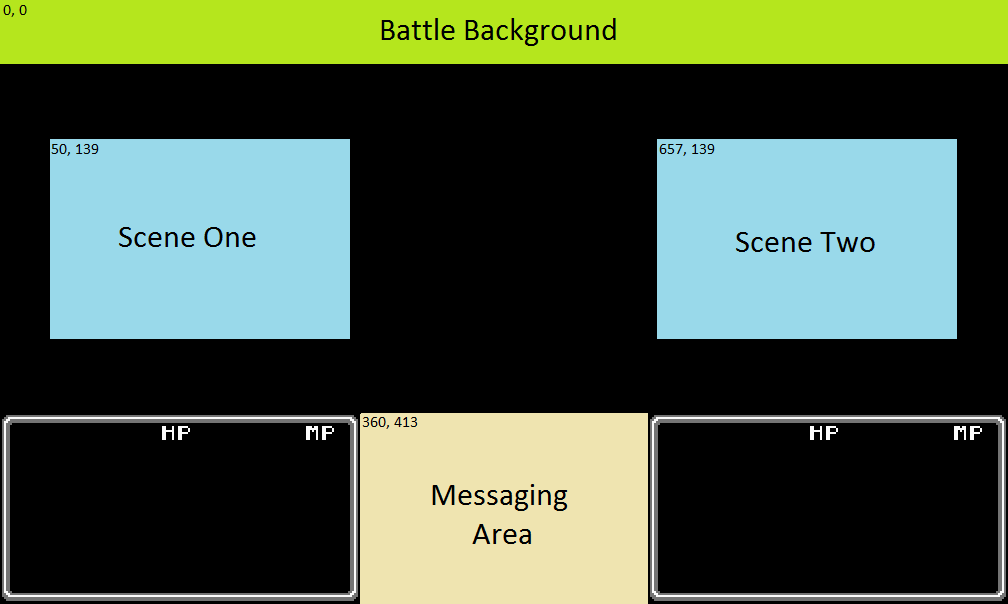
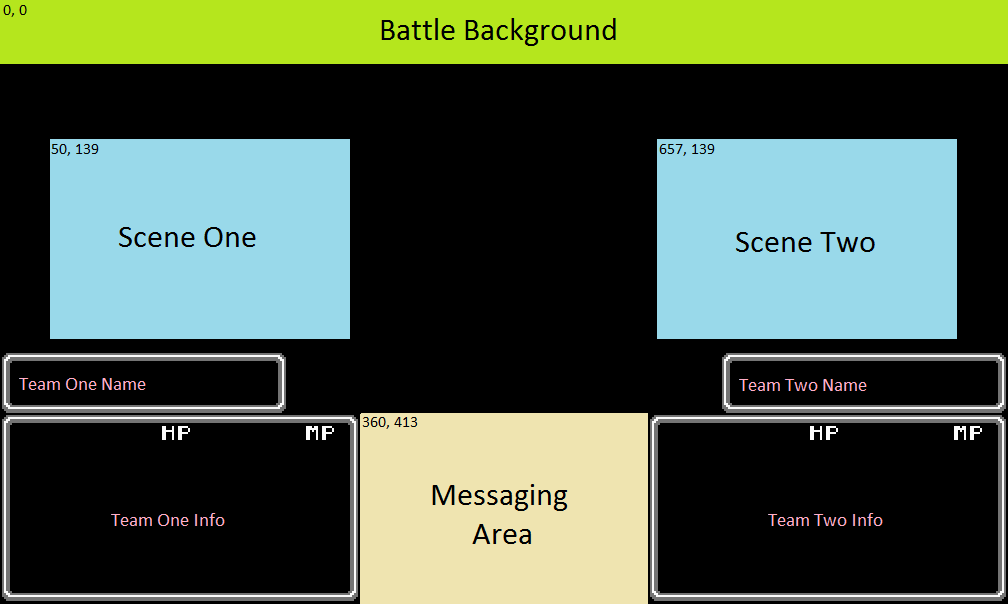
TeamData, Graphics added, needs cleaning
BattleScene:
- IsTeam boolean

Game:
- Team management. Will need to be put into own TeamManager class
- Writing results fix

TextManager:
- InfoBox manager
- TeamName displays

diff --git a/FF2_Monster_Sim/Game1.cs b/FF2_Monster_Sim/Game1.cs
@@ -1,4 +1,5 @@
 using System;
+using System.IO;
 using System.Collections.Generic;
 using System.Diagnostics;
 using System.Linq;
@@ -19,11 +20,12 @@ namespace FF2_Monster_Sim
         BattleScene sceneOne, sceneTwo;
 
         // Turn Logic
-        private const int ROUND_LIMIT = 200;
+        private const int ROUND_LIMIT = 100;
         private int turn = 0, turnTotal = 0, round = 0;
         private Thread combatThread;
-        private int gameTick = 1, teardownTick = 1;
-        private const int FANFARE_TIMER = 30000; // 17000 for one loop
+        private int gameTick = 100, teardownTick = 150;
+        private const int FANFARE_TIMER = 17000; // 17000 for one loop, 30000 for two
+        private const int INTERLUDE_TIMER = 6500; // ~6500 per loop
 
         // Graphics
         private GraphicsDeviceManager graphics;
@@ -31,8 +33,12 @@ namespace FF2_Monster_Sim
         private Texture2D gameBackground;
         private SpriteFont font;
 
+        // Teams
+        private string teamOneName, teamTwoName;
+        private int teamOneIndex, teamTwoIndex;
+
         // Saving battle results
-        private const string RESULTS_FILE_PATH = @"C:\Users\HellaLaptop\Desktop\FF2Battle.txt";
+        private const string RESULTS_FILE_PATH = @".\Content\Data\FF2_BattleResults.txt";
 
         public Game1()
         {
@@ -81,25 +87,34 @@ namespace FF2_Monster_Sim
             SpellManager.LoadContent();
             SoundManager.LoadContent(Content);
 
-            // Populate the scenes with random monsters
-            sceneOne.PopulateScene(GenerateRandomSceneString(), Content);
-            sceneTwo.PopulateScene(GenerateRandomSceneString(), Content);
-
             // Graphics
             gameBackground = Content.Load<Texture2D>("Graphics\\GameArea");
             font = Content.Load<SpriteFont>("Graphics/Font");
             
             // Text Manager
+            // TODO: This should be moved into TextManager
             Texture2D[] textures = 
             {
                 Content.Load<Texture2D>("Graphics\\ActorBox"),
                 Content.Load<Texture2D>("Graphics\\DmgHitBox"),
                 Content.Load<Texture2D>("Graphics\\ActorBox"),
                 Content.Load<Texture2D>("Graphics\\DmgHitBox"),
-                Content.Load<Texture2D>("Graphics\\ResultsBox")
+                Content.Load<Texture2D>("Graphics\\ResultsBox"),
+                Content.Load<Texture2D>("Graphics\\InfoBox")
             };
             TextManager.LoadContent(textures.ToArray(), font);
+            
+            // Populate the scenes with random monsters
+            string[] teamOne = PickRandomTeam().Split(',');
+            teamOneName = teamOne[1];
+            teamOneIndex = int.Parse(teamOne[0]);
+            TextManager.SetTeamName(1, teamOneName);
+            sceneOne.PopulateScene(teamOne[2], Content, true);
 
+            teamTwoName = "Random";
+            TextManager.SetTeamName(2, teamTwoName);
+            sceneTwo.PopulateScene(GenerateRandomSceneString(), Content);
+            
             // Threading
             combatThread.Start();
         }
@@ -159,6 +174,15 @@ namespace FF2_Monster_Sim
         {
             while (true)
             {
+                SoundManager.PlayMenuMusic();
+                TextManager.SetInfoText("Starting in 14...");
+                for (int i = 0; i <= INTERLUDE_TIMER; i += 1000)
+                {
+                    TextManager.SetInfoText("Starting in " + (INTERLUDE_TIMER - i)/1000 + "...");
+                    Thread.Sleep(1000);
+                }
+                TextManager.TearDownText();
+
                 if (sceneOne.SceneType == SceneType.C || sceneTwo.SceneType == SceneType.C)
                     SoundManager.PlayBossMusic();
                 else
@@ -292,6 +316,9 @@ namespace FF2_Monster_Sim
                         Thread.Sleep(gameTick * 2);
                         while (TextManager.TearDownText())
                             Thread.Sleep(teardownTick);
+                        
+                        if (!sceneOne.HasLivingMonsters() || !sceneTwo.HasLivingMonsters() || round >= ROUND_LIMIT)
+                            break;
                     }
 
                     // End of round
@@ -307,17 +334,45 @@ namespace FF2_Monster_Sim
                         MonsterManager.RollTempStatusRecovery(mon);
                 }
 
-                // TODO: Display winning team and scene, fanfare for a bit, then tear down to start another battle
-                SoundManager.PlayVictoryMusic();
+                // Record the battle info
                 WriteBattleResults();
+
+                // Play music based on who won or lost, and based on scene type
+                if (!sceneOne.HasLivingMonsters() && sceneTwo.SceneType == SceneType.C)
+                {
+                    SoundManager.PlayDefeatMusic();
+                    TextManager.SetInfoText("Team " + teamOneName + "\nwas defeated...");
+                }
+                else if (!sceneTwo.HasLivingMonsters() && sceneOne.SceneType == SceneType.C)
+                {
+                    SoundManager.PlayDefeatMusic();
+                    TextManager.SetInfoText("Team " + teamTwoName + "\nwas defeated...");
+                }
+                else
+                {
+                    SoundManager.PlayVictoryMusic();
+                    if (sceneOne.HasLivingMonsters())
+                        TextManager.SetInfoText("Team " + teamOneName + "\nwas victorious!!");
+                    else
+                        TextManager.SetInfoText("Team " + teamTwoName + "\nwas victorious!!");
+                }
                 Thread.Sleep(FANFARE_TIMER);
 
                 // Cleanup scenes and setup for next battle
                 sceneOne.ClearScene();
                 sceneTwo.ClearScene();
                 round = turn = turnTotal = 0;
+                TextManager.Clear();
 
-                sceneOne.PopulateScene(GenerateRandomSceneString(), Content);
+                // Repopulate scenes
+                string[] teamOne = PickRandomTeam().Split(',');
+                teamOneName = teamOne[1];
+                teamOneIndex = int.Parse(teamOne[0]);
+                TextManager.SetTeamName(1, teamOneName);
+                sceneOne.PopulateScene(teamOne[2], Content, true);
+
+                teamTwoName = "Random";
+                TextManager.SetTeamName(2, teamTwoName);
                 sceneTwo.PopulateScene(GenerateRandomSceneString(), Content);
             }
         }
@@ -328,29 +383,83 @@ namespace FF2_Monster_Sim
 
         private string GenerateRandomSceneString()
         {
-            string[] alph = new string[] { "A", "B", "B", "B", "B", "C" };
+            string[] alph = new string[] { "A", "A", "B", "B", "B", "B", "C" };
             string rndchar = alph[Globals.rnd.Next(0, alph.Length)];
             return rndchar + ";" + String.Join("-", MonsterManager.GenerateMonsterList(rndchar));
+        }
+
+        private string PickRandomTeam()
+        {
+            string path = @".\Content\Data\FF2_TeamData.csv";
+            List<string> teamData = File.ReadAllLines(path).ToList();
+            return teamData[Globals.rnd.Next(1, teamData.Count)];
+
+            /*
+            string[] str2 = str[1].Split(',');
+            str[1] = string.Join(",", str2);
+            File.WriteAllLines(path, str);
+            */
         }
 
         private void WriteBattleResults()
         {
             // Build the output string and save it. 
-            // NOTE: Local saves on a very specifc path currently. To be written to a project folder instead.
             int winner = sceneOne.HasLivingMonsters() ? 1 : 2;
             if (round >= ROUND_LIMIT)
                 winner = 0;
             string outstr = winner.ToString() + "," + round.ToString() + "," + turnTotal.ToString() + "," + sceneOne.SceneString + "," + sceneTwo.SceneString;
 
             Debug.WriteLine(outstr);
-
-            /*
-            using (System.IO.StreamWriter file = new System.IO.StreamWriter(RESULTS_FILE_PATH, true))
+            using (StreamWriter file = new StreamWriter(RESULTS_FILE_PATH, true))
             {
                 file.WriteLine(outstr);
             }
-            */
-            
+
+            string path = @".\Content\Data\FF2_TeamData.csv";
+            List<string> teamData = File.ReadAllLines(path).ToList();
+            if (sceneOne.IsTeam)
+            {
+                for (int i = 0; i < teamData.Count; i++)
+                {
+                    string data = teamData[i];
+                    string[] dataSplit = data.Split(',');
+                    if (string.Equals(teamOneIndex.ToString(), dataSplit[0]))
+                    {
+                        Debug.WriteLine(string.Join(",", dataSplit));
+
+                        // TODO: This is fugly, fix it
+                        if (sceneOne.HasLivingMonsters())
+                        {
+                            int wins = int.Parse(dataSplit[3]);
+                            wins++;
+                            dataSplit[3] = wins.ToString();
+                        }
+                        else if (sceneTwo.HasLivingMonsters())
+                        {
+                            int losses = int.Parse(dataSplit[4]);
+                            losses++;
+                            dataSplit[4] = losses.ToString();
+                        }
+                        else if (round >= ROUND_LIMIT)
+                        {
+                            int ties = int.Parse(dataSplit[5]);
+                            ties++;
+                            dataSplit[5] = ties.ToString();
+                        }
+
+                        int rounds = int.Parse(dataSplit[6]);
+                        rounds += round;
+                        dataSplit[6] = rounds.ToString();
+
+                        Debug.WriteLine(string.Join(",", dataSplit));
+                        teamData[i] = string.Join(",", dataSplit);
+                        break;
+                    }
+                }
+                File.WriteAllLines(path, teamData);
+            }
+
+
         }
 
         /// <summary>

diff --git a/FF2_Monster_Sim/TextManager.cs b/FF2_Monster_Sim/TextManager.cs
@@ -13,7 +13,7 @@ namespace FF2_Monster_Sim
     public static class TextManager
     {
         private static int X, Y;
-        private static Textbox actorBox, hitsBox, targetBox, dmgBox, resultsBox;
+        private static Textbox actorBox, hitsBox, targetBox, dmgBox, resultsBox, infoBox;
         private static Textbox[] textboxes;
         private static Vector2[] positions;
 
@@ -21,6 +21,7 @@ namespace FF2_Monster_Sim
         
         private static string sceneOneText, sceneTwoText;
         private static string roundText, turnText;
+        private static string teamOneName, teamTwoName;
 
         private static SpriteFont spriteFont;
         
@@ -36,10 +37,12 @@ namespace FF2_Monster_Sim
             targetBox = new Textbox();
             dmgBox = new Textbox();
             resultsBox = new Textbox();
-            textboxes = new Textbox[]{ actorBox, hitsBox, targetBox, dmgBox, resultsBox };
+            infoBox = new Textbox();
+            textboxes = new Textbox[]{ actorBox, hitsBox, targetBox, dmgBox, resultsBox, infoBox };
             textboxStack = new Stack<Textbox>();
-            turnText = "Turn: 0";
+            turnText = "Turn : 0";
             roundText = "Round: 0";
+            teamOneName = teamTwoName = "Team";
 
             // Setup positioning
             X = x;
@@ -50,22 +53,24 @@ namespace FF2_Monster_Sim
                 new Vector2(x + 144, y),
                 new Vector2(x, y + 64),
                 new Vector2(x + 144, y + 64),
-                new Vector2(x, y + 128)
+                new Vector2(x, y + 128),
+                new Vector2(x, y)
             };
 
-            for (int i = 0; i < 5; i++)
+            for (int i = 0; i < positions.Length; i++)
                 textboxes[i].Initialize(positions[i]);
         }
 
         public static void LoadContent(Texture2D[] textures, SpriteFont font)
         {
-            for (int i = 0; i < 5; i++)
+            for (int i = 0; i < textboxes.Length; i++)
                 textboxes[i].LoadContent(textures[i], font);
             spriteFont = font;
         }
 
         public static void Draw(SpriteBatch spriteBatch)
         {
+            infoBox.Draw(spriteBatch);
             actorBox.Draw(spriteBatch);
             hitsBox.Draw(spriteBatch);
             targetBox.Draw(spriteBatch);
@@ -74,6 +79,8 @@ namespace FF2_Monster_Sim
 
             spriteBatch.DrawString(spriteFont, roundText, new Vector2(0, 65), Color.White);
             spriteBatch.DrawString(spriteFont, turnText, new Vector2(0, 80), Color.White);
+            spriteBatch.DrawString(spriteFont, teamOneName, new Vector2(14, 375), Color.White);
+            spriteBatch.DrawString(spriteFont, teamTwoName, new Vector2(734, 375), Color.White);
 
             ParseDrawSceneText(sceneOneText, 14, 444, spriteBatch);
             ParseDrawSceneText(sceneTwoText, 662, 444, spriteBatch);
@@ -90,7 +97,7 @@ namespace FF2_Monster_Sim
         {
             foreach (Textbox box in textboxes)
                 TearDownTextBox(box);
-            sceneOneText = sceneTwoText = "";
+            sceneOneText = sceneTwoText = teamOneName = teamTwoName = "";
             roundText = "Round: 0";
             turnText = "Turn: 0";
             textboxStack.Clear();
@@ -139,6 +146,11 @@ namespace FF2_Monster_Sim
             SetTextBox(resultsBox, text);
         }
 
+        public static void SetInfoText(string text)
+        {
+            SetTextBox(infoBox, text);
+        }
+
         public static void SetRoundText(int round)
         {
             roundText = "Round: " + round.ToString();
@@ -146,7 +158,15 @@ namespace FF2_Monster_Sim
 
         public static void SetTurnText(int turn)
         {
-            turnText = "Turn: " + turn.ToString();
+            turnText = "Turn : " + turn.ToString();
+        }
+
+        public static void SetTeamName(int team, string name)
+        {
+            if (team == 1)
+                teamOneName = "Team " + name;
+            else
+                teamTwoName = "Team " + name;
         }
 
         /// <summary>

diff --git a/FF2_Monster_Sim/BattleScene.cs b/FF2_Monster_Sim/BattleScene.cs
@@ -75,7 +75,7 @@ namespace FF2_Monster_Sim
          */
 
         public SceneType SceneType { get; private set; }
-        public bool Flipped = false;
+        public bool Flipped = false, IsTeam = false;
         private int sceneNum;
         public int X = 0, Y = 0;
         
@@ -130,10 +130,12 @@ namespace FF2_Monster_Sim
         /// Setup and populate the scene with monsters using a very specifically formatted string...
         /// Expected format: "A;name-name-name-name-name-name-name-name"
         /// </summary>
-        public void PopulateScene(string sceneString, ContentManager content)
+        public void PopulateScene(string sceneString, ContentManager content, bool isTeam = false)
         {
             // Cleanup any leftovers first
             ClearScene();
+
+            IsTeam = isTeam;
 
             // Rip apart the string into it's scene type and monster list
             SceneString = sceneString;

diff --git a/SimTests/MonsterManagerTest.cs b/SimTests/MonsterManagerTest.cs
@@ -112,10 +112,6 @@ namespace SimTests
                     Assert.IsTrue(Utils.NumIsWithinRange(action.MPCost, 0, 256));
                     Assert.IsTrue(validTargets.Contains(action.Target.ToUpper()));
                 }
-                // Attack or valid spell name
-                // Level within range
-                // Power, Accuracy, MpConsumption >= 0
-                // Target string is valid
 
                 // Everything else is not null
                 Assert.IsNotNull(monster.AttackEffects);
